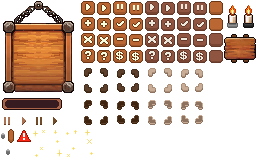
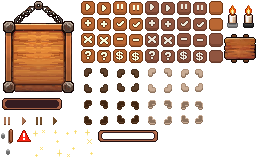
frying pan bar shader

Changed region(s): [[0.375, 0.8125, 0.625, 0.9062], [0.0312, 0.8125, 0.0625, 0.9062], [0.0, 0.6562, 0.0312, 0.6875]]

diff --git a/logic/game/equipment_interaction/FryingPanDisplay.cs b/logic/game/equipment_interaction/FryingPanDisplay.cs
@@ -5,6 +5,9 @@ public partial class FryingPanDisplay : EquipmentDisplay
     [Export]
     private Slider slider;
 
+    [Export]
+    private Control sliderFill;
+
     private int minSliderValueForProgress = 5;
     private int maxSliderValueForProgress = 15;
 
@@ -76,5 +79,15 @@ public partial class FryingPanDisplay : EquipmentDisplay
             return;
         
         equipment.ProgressCurrentOrder(equipment.GetProgressPercent(slider.Value));
+    }
+
+
+    public override void RefreshCurrentOrderDisplay()
+    {
+        base.RefreshCurrentOrderDisplay();
+
+        sliderFill.SetInstanceShaderParameter("instance_shader_parameters/target_area_min_value", minSliderValueForProgress);
+        sliderFill.SetInstanceShaderParameter("instance_shader_parameters/target_area_max_value", maxSliderValueForProgress);
+        sliderFill.SetInstanceShaderParameter("instance_shader_parameters/bar_max_value", slider.MaxValue);
     }
 }
